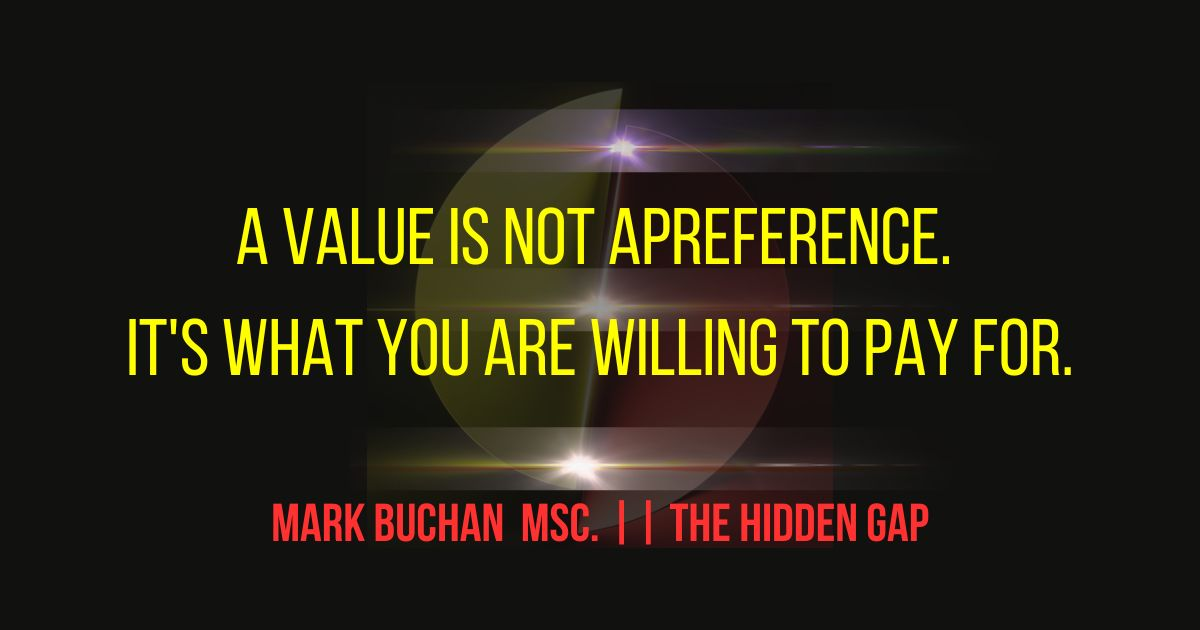
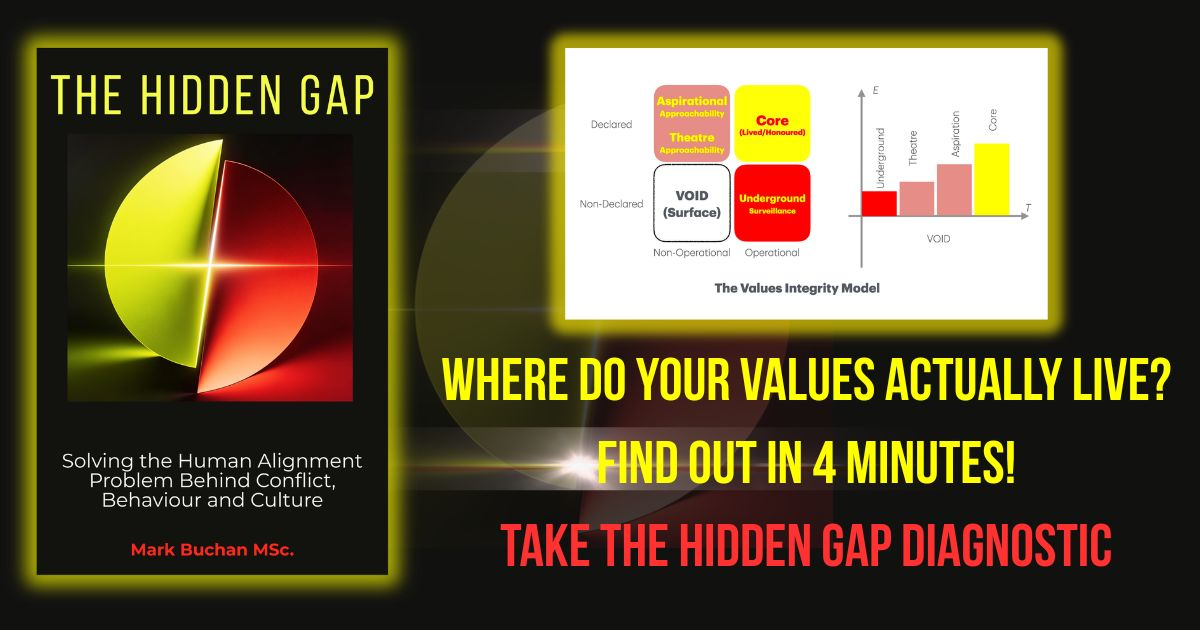
added linked in free chapter and thanks page

diff --git a/app/thanks-linkedin/page.tsx b/app/thanks-linkedin/page.tsx
@@ -1,0 +1,113 @@
+"use client"
+
+import { useEffect } from "react"
+import { Footer } from "@/components/footer"
+
+declare global {
+  interface Window {
+    gtag?: (...args: unknown[]) => void
+  }
+}
+
+const SECONDARY_LINKS = [
+  {
+    title: "Take the 4-min diagnostic",
+    description: "See where your own hidden gap shows up, in under 4 minutes.",
+    href: "https://www.markbuchan.co.uk/the-hidden-gap-diagnostic/",
+  },
+  {
+    title: "Join From Our Trenches",
+    description: "Fortnightly, honest, no-fluff thinking on values and culture.",
+    href: "https://www.markbuchan.co.uk/community/",
+  },
+  {
+    title: "Book a diagnostic conversation",
+    description: "Free, 30 minutes, usually surfaces something useful.",
+    href: "https://www.markbuchan.co.uk/work-with-me/#diagnostic-conversation",
+  },
+]
+
+export default function ThanksLinkedInPage() {
+  useEffect(() => {
+    window.gtag?.("event", "linkedin_thanks_view")
+  }, [])
+
+  function handleSecondaryClick(title: string) {
+    window.gtag?.("event", "linkedin_secondary_click", { link: title })
+  }
+
+  function handleBookMentionClick() {
+    window.gtag?.("event", "linkedin_book_mention_click")
+  }
+
+  return (
+    <>
+      <main className="bg-white">
+
+        {/* HERO */}
+        <section className="bg-[#111110] pt-32 pb-20">
+          <div className="mx-auto max-w-3xl px-6 text-center">
+            <h1 className="text-4xl md:text-6xl font-bold leading-tight text-[#ffff00] text-balance mb-6">
+              It&apos;s downloading now;
+              <br />
+              check your downloads folder.
+            </h1>
+            <p className="text-xl leading-relaxed text-white opacity-75 max-w-2xl mx-auto">
+              Once you have read the chapter, here&apos;s where you can go deeper:
+            </p>
+          </div>
+        </section>
+
+        <hr className="w-full h-px bg-white" style={{boxShadow: '0 0 6px 1px rgba(255,255,255,0.8), 0 0 16px 4px rgba(255,49,49,0.5), 0 0 32px 8px rgba(255,49,49,0.2)'}} />
+
+        {/* SECONDARY LINKS */}
+        <section className="py-24">
+          <div className="mx-auto max-w-5xl px-6">
+            <div className="grid gap-6 md:grid-cols-3">
+              {SECONDARY_LINKS.map((link) => (
+                <a
+                  key={link.title}
+                  href={link.href}
+                  onClick={() => handleSecondaryClick(link.title)}
+                  className="flex h-full flex-col rounded-2xl border border-[rgba(17,17,16,0.15)] bg-white p-8 shadow-sm hover:border-[#111110] transition-colors"
+                >
+                  <h3 className="text-xl font-bold text-[#111110] mb-3">
+                    {link.title}
+                  </h3>
+                  <p className="text-[#333330] leading-relaxed flex-1">
+                    {link.description}
+                  </p>
+                  <span className="mt-6 text-sm font-semibold text-[#ff3131]">
+                    Learn more →
+                  </span>
+                </a>
+              ))}
+            </div>
+          </div>
+        </section>
+
+        <hr className="w-full h-px bg-white" style={{boxShadow: '0 0 6px 1px rgba(255,255,255,0.8), 0 0 16px 4px rgba(255,49,49,0.5), 0 0 32px 8px rgba(255,49,49,0.2)'}} />
+
+        {/* SOFT BOOK MENTION */}
+        <section className="bg-[#ffff00] py-16">
+          <div className="mx-auto max-w-2xl px-6 text-center">
+            <p className="text-lg text-[#111110] leading-relaxed">
+              If Chapter 1 resonates, the full book is live on Amazon and at{" "}
+              <a
+                href="/book"
+                onClick={handleBookMentionClick}
+                className="underline font-semibold hover:text-[#ff3131]"
+              >
+                markbuchan.co.uk/book
+              </a>{" "}
+              — use <span className="font-semibold">LINKEDIN25</span> for 25% off.
+            </p>
+          </div>
+        </section>
+
+      </main>
+
+      <Footer />
+    </>
+  )
+}

diff --git a/app/from-linkedin/page.tsx b/app/from-linkedin/page.tsx
@@ -1,0 +1,87 @@
+"use client"
+
+import { useEffect } from "react"
+import { useRouter } from "next/navigation"
+import Image from "next/image"
+import { Footer } from "@/components/footer"
+
+declare global {
+  interface Window {
+    gtag?: (...args: unknown[]) => void
+  }
+}
+
+export default function FromLinkedInPage() {
+  const router = useRouter()
+
+  useEffect(() => {
+    window.gtag?.("event", "linkedin_landing_view")
+  }, [])
+
+  function handleDownloadClick() {
+    window.gtag?.("event", "linkedin_download_click")
+
+    const link = document.createElement("a")
+    link.href = "/downloads/the-hidden-gap-free-chapter-linkedin.pdf"
+    link.download = "the-hidden-gap-free-chapter-linkedin.pdf"
+    document.body.appendChild(link)
+    link.click()
+    document.body.removeChild(link)
+
+    router.push("/thanks-linkedin")
+  }
+
+  return (
+    <>
+      <main className="bg-[#111110]">
+
+        {/* HERO */}
+        <section className="pt-32 pb-24 md:pt-40 md:pb-32">
+          <div className="mx-auto max-w-5xl px-6 grid gap-14 md:grid-cols-[0.9fr_1.1fr] items-center">
+
+            {/* BOOK COVER */}
+            <div className="mx-auto w-full max-w-[280px] md:max-w-[340px]">
+              <div className="overflow-hidden rounded-lg shadow-[0_30px_80px_rgba(0,0,0,0.5)] ring-2 ring-white/10">
+                <Image
+                  src="/images/book-cover.jpg"
+                  alt="The Hidden Gap book cover"
+                  width={900}
+                  height={1200}
+                  className="h-auto w-full object-cover"
+                  priority
+                />
+              </div>
+            </div>
+
+            {/* CONTENT */}
+            <div className="text-center md:text-left">
+              <h1 className="leading-tight text-[#ffff00] text-balance mb-6">
+                <span className="block text-4xl md:text-6xl font-bold">
+                  Thanks for connecting.
+                </span>
+                <span className="block text-2xl md:text-4xl font-bold mt-2">
+                  Here&apos;s Chapter 1 for free.
+                </span>
+              </h1>
+              <p className="text-xl leading-relaxed text-white opacity-75 mb-14">
+                Just an honest look at the gap between what organisations say
+                and what they actually do.
+              </p>
+
+              <button
+                onClick={handleDownloadClick}
+                className="inline-flex items-center justify-center rounded-md bg-[#ff3131] px-10 py-6 text-white text-2xl font-bold hover:bg-[#ffff00] hover:text-[#111110] transition-colors shadow-[0_0_50px_rgba(255,49,49,0.45)]"
+              >
+                Download Chapter 1 (PDF) →
+              </button>
+            </div>
+
+          </div>
+        </section>
+
+      </main>
+
+      <Footer />
+    </>
+  )
+}

diff --git a/app/from-linkedin/layout.tsx b/app/from-linkedin/layout.tsx
@@ -1,0 +1,17 @@
+export const metadata = {
+  title: "Get Chapter 1 Free — The Hidden Gap | Mark Buchan MSc",
+  description: "Download the first chapter of The Hidden Gap free. No email required.",
+  robots: {
+    index: false,
+    follow: false,
+  },
+  openGraph: {
+    title: "Get Chapter 1 Free — The Hidden Gap | Mark Buchan MSc",
+    description: "Download the first chapter of The Hidden Gap free. No email required.",
+    images: [{ url: "/images/og/og-free-chapter.jpg", width: 1200, height: 630 }],
+  },
+}
+
+export default function FromLinkedInLayout({ children }: { children: React.ReactNode }) {
+  return <>{children}</>
+}

diff --git a/app/thanks-linkedin/layout.tsx b/app/thanks-linkedin/layout.tsx
@@ -1,0 +1,17 @@
+export const metadata = {
+  title: "Thanks — The Hidden Gap | Mark Buchan MSc",
+  description: "Your copy of Chapter 1 is downloading. Here's where to go next.",
+  robots: {
+    index: false,
+    follow: false,
+  },
+  openGraph: {
+    title: "Thanks — The Hidden Gap | Mark Buchan MSc",
+    description: "Your copy of Chapter 1 is downloading. Here's where to go next.",
+    images: [{ url: "/images/og/og-free-chapter.jpg", width: 1200, height: 630 }],
+  },
+}
+
+export default function ThanksLinkedInLayout({ children }: { children: React.ReactNode }) {
+  return <>{children}</>
+}

diff --git a/app/community/page.tsx b/app/community/page.tsx
@@ -147,14 +147,14 @@ export default function CommunityPage() {
               Want to go deeper?
             </h2>
             <p className="text-lg text-muted-foreground mb-8 max-w-xl mx-auto">
-              The Hidden Gap names the problem, maps the territory, and gives 
-              you the tools to close the distance. Available 19th June 2026.
+              The Hidden Gap names the problem, maps the territory, and gives
+              you the tools to close the distance. Available now.
             </p>
             <a
-              href="/pre-order"
+              href="/book"
               className="inline-flex items-center rounded-md bg-[#111110] px-8 py-4 text-[#ffff00] text-lg font-semibold hover:bg-[#ff3131] hover:text-white transition-colors"
             >
-              Pre-Order The Book →
+              Buy The Book →
             </a>
           </div>
         </section>

diff --git a/out/404.html b/out/404.html
@@ -1,1 +1,1 @@
-<!DOCTYPE html><!--dXLTUYtPh5R326onVpKFM--><html lang="en"><head><meta charSet="utf-8"/><meta name="viewport" content="width=device-width, initial-scale=1"/><link rel="preload" href="/_next/static/media/e4af272ccee01ff0-s.p.woff2" as="font" crossorigin="" type="font/woff2"/><link rel="preload" href="/_next/static/media/eaead17c7dbfcd5d-s.p.woff2" as="font" crossorigin="" type="font/woff2"/><link rel="stylesheet" href="/_next/static/css/3aefc04b1d9be7e5.css" data-precedence="next"/><link rel="stylesheet" href="/_next/static/css/f166f8566a1b8bf9.css" data-precedence="next"/><link rel="preload" as="script" fetchPriority="low" href="/_next/static/chunks/webpack-425e912a94b467f3.js"/><script src="/_next/static/chunks/6ee9f5d1-21ccf1713a250a03.js" async=""></script><script src="/_next/static/chunks/977-2bc62eb106395d11.js" async=""></script><script src="/_next/static/chunks/main-app-3b5ccf4932213ca9.js" async=""></script><script src="/_next/static/chunks/app/layout-d648d078710b6146.js" async=""></script><link rel="preload" href="https://www.googletagmanager.com/gtag/js?id=G-Q5HFCQMSCL" as="script"/><meta name="robots" content="noindex"/><meta name="next-size-adjust" content=""/><title>404: This page could not be found.</title><meta name="theme-color" content="#ffff00"/><title>Mark Buchan MSc — Human Alignment Consultant &amp; Author</title><meta name="description" content="Helping leaders close the gap between the values their organisation declares and the values actually running the show. Author of The Hidden Gap."/><meta name="author" content="Mark Buchan"/><meta name="keywords" content="Mark Buchan,The Hidden Gap,values,organisational culture,leadership,change,team conflict,coaching,ECHO framework"/><meta name="google-site-verification" content="qrhAgHg0cDomVuNx-lg_oaarp6g3hKlMg4YwEJoYYA0"/><meta property="og:title" content="Mark Buchan MSc — Human Alignment Consultant &amp; Author"/><meta property="og:description" content="Helping leaders close the gap between declared values and operating reality. Author of The Hidden Gap."/><meta property="og:url" content="https://markbuchan.co.uk/"/><meta property="og:image" content="https://markbuchan.co.uk/images/og/og-home.jpg"/><meta property="og:image:width" content="1920"/><meta property="og:image:height" content="1080"/><meta property="og:type" content="website"/><meta name="twitter:card" content="summary_large_image"/><meta name="twitter:title" content="Mark Buchan MSc — Human Alignment Consultant &amp; Author"/><meta name="twitter:description" content="Helping leaders close the gap between declared values and operating reality. Author of The Hidden Gap."/><meta name="twitter:image" content="https://markbuchan.co.uk/images/og/og-home.jpg"/><meta name="twitter:image:width" content="1920"/><meta name="twitter:image:height" content="1080"/><script src="/_next/static/chunks/polyfills-42372ed130431b0a.js" noModule=""></script></head><body><div hidden=""><!--$--><!--/$--></div><div style="font-family:system-ui,&quot;Segoe UI&quot;,Roboto,Helvetica,Arial,sans-serif,&quot;Apple Color Emoji&quot;,&quot;Segoe UI Emoji&quot;;height:100vh;text-align:center;display:flex;flex-direction:column;align-items:center;justify-content:center"><div><style>body{color:#000;background:#fff;margin:0}.next-error-h1{border-right:1px solid rgba(0,0,0,.3)}@media (prefers-color-scheme:dark){body{color:#fff;background:#000}.next-error-h1{border-right:1px solid rgba(255,255,255,.3)}}</style><h1 class="next-error-h1" style="display:inline-block;margin:0 20px 0 0;padding:0 23px 0 0;font-size:24px;font-weight:500;vertical-align:top;line-height:49px">404</h1><div style="display:inline-block"><h2 style="font-size:14px;font-weight:400;line-height:49px;margin:0">This page could not be found.</h2></div></div></div><!--$--><!--/$--><script src="/_next/static/chunks/webpack-425e912a94b467f3.js" id="_R_" async=""></script><script>(self.__next_f=self.__next_f||[]).push([0])</script><script>self.__next_f.push([1,"1:\"$Sreact.fragment\"\n2:I[1409,[],\"\"]\n3:I[1813,[],\"\"]\n4:I[7921,[\"177\",\"static/chunks/app/layout-d648d078710b6146.js\"],\"\"]\n5:I[3652,[],\"OutletBoundary\"]\n7:I[1293,[],\"AsyncMetadataOutlet\"]\n9:I[3652,[],\"ViewportBoundary\"]\nb:I[3652,[],\"MetadataBoundary\"]\nc:\"$Sreact.suspense\"\ne:I[323,[],\"\"]\n:HL[\"/_next/static/media/e4af272ccee01ff0-s.p.woff2\",\"font\",{\"crossOrigin\":\"\",\"type\":\"font/woff2\"}]\n:HL[\"/_next/static/media/eaead17c7dbfcd5d-s.p.woff2\",\"font\",{\"crossOrigin\":\"\",\"type\":\"font/woff2\"}]\n:HL[\"/_next/static/css/3aefc04b1d9be7e5.css\",\"style\"]\n:HL[\"/_next/static/css/f166f8566a1b8bf9.css\",\"style\"]\n"])</script><script>self.__next_f.push([1,"0:{\"P\":null,\"b\":\"dXLTUYtPh5R326onVpKFM\",\"p\":\"\",\"c\":[\"\",\"_not-found\",\"\"],\"i\":false,\"f\":[[[\"\",{\"children\":[\"/_not-found\",{\"children\":[\"__PAGE__\",{}]}]},\"$undefined\",\"$undefined\",true],[\"\",[\"$\",\"$1\",\"c\",{\"children\":[[[\"$\",\"link\",\"0\",{\"rel\":\"stylesheet\",\"href\":\"/_next/static/css/3aefc04b1d9be7e5.css\",\"precedence\":\"next\",\"crossOrigin\":\"$undefined\",\"nonce\":\"$undefined\"}],[\"$\",\"link\",\"1\",{\"rel\":\"stylesheet\",\"href\":\"/_next/static/css/f166f8566a1b8bf9.css\",\"precedence\":\"next\",\"crossOrigin\":\"$undefined\",\"nonce\":\"$undefined\"}]],[\"$\",\"html\",null,{\"lang\":\"en\",\"children\":[\"$\",\"body\",null,{\"children\":[[\"$\",\"$L2\",null,{\"parallelRouterKey\":\"children\",\"error\":\"$undefined\",\"errorStyles\":\"$undefined\",\"errorScripts\":\"$undefined\",\"template\":[\"$\",\"$L3\",null,{}],\"templateStyles\":\"$undefined\",\"templateScripts\":\"$undefined\",\"notFound\":\"$undefined\",\"forbidden\":\"$undefined\",\"unauthorized\":\"$undefined\"}],[\"$\",\"$L4\",null,{\"src\":\"https://www.googletagmanager.com/gtag/js?id=G-Q5HFCQMSCL\",\"strategy\":\"afterInteractive\"}],[\"$\",\"$L4\",null,{\"id\":\"ga-script\",\"strategy\":\"afterInteractive\",\"children\":\"\\n            window.dataLayer = window.dataLayer || [];\\n            function gtag(){dataLayer.push(arguments);}\\n            gtag('js', new Date());\\n            gtag('config', 'G-Q5HFCQMSCL');\\n          \"}]]}]}]]}],{\"children\":[\"/_not-found\",[\"$\",\"$1\",\"c\",{\"children\":[null,[\"$\",\"$L2\",null,{\"parallelRouterKey\":\"children\",\"error\":\"$undefined\",\"errorStyles\":\"$undefined\",\"errorScripts\":\"$undefined\",\"template\":[\"$\",\"$L3\",null,{}],\"templateStyles\":\"$undefined\",\"templateScripts\":\"$undefined\",\"notFound\":\"$undefined\",\"forbidden\":\"$undefined\",\"unauthorized\":\"$undefined\"}]]}],{\"children\":[\"__PAGE__\",[\"$\",\"$1\",\"c\",{\"children\":[[[\"$\",\"title\",null,{\"children\":\"404: This page could not be found.\"}],[\"$\",\"div\",null,{\"style\":{\"fontFamily\":\"system-ui,\\\"Segoe UI\\\",Roboto,Helvetica,Arial,sans-serif,\\\"Apple Color Emoji\\\",\\\"Segoe UI Emoji\\\"\",\"height\":\"100vh\",\"textAlign\":\"center\",\"display\":\"flex\",\"flexDirection\":\"column\",\"alignItems\":\"center\",\"justifyContent\":\"center\"},\"children\":[\"$\",\"div\",null,{\"children\":[[\"$\",\"style\",null,{\"dangerouslySetInnerHTML\":{\"__html\":\"body{color:#000;background:#fff;margin:0}.next-error-h1{border-right:1px solid rgba(0,0,0,.3)}@media (prefers-color-scheme:dark){body{color:#fff;background:#000}.next-error-h1{border-right:1px solid rgba(255,255,255,.3)}}\"}}],[\"$\",\"h1\",null,{\"className\":\"next-error-h1\",\"style\":{\"display\":\"inline-block\",\"margin\":\"0 20px 0 0\",\"padding\":\"0 23px 0 0\",\"fontSize\":24,\"fontWeight\":500,\"verticalAlign\":\"top\",\"lineHeight\":\"49px\"},\"children\":404}],[\"$\",\"div\",null,{\"style\":{\"display\":\"inline-block\"},\"children\":[\"$\",\"h2\",null,{\"style\":{\"fontSize\":14,\"fontWeight\":400,\"lineHeight\":\"49px\",\"margin\":0},\"children\":\"This page could not be found.\"}]}]]}]}]],null,[\"$\",\"$L5\",null,{\"children\":[\"$L6\",[\"$\",\"$L7\",null,{\"promise\":\"$@8\"}]]}]]}],{},null,false]},null,false]},null,false],[\"$\",\"$1\",\"h\",{\"children\":[[\"$\",\"meta\",null,{\"name\":\"robots\",\"content\":\"noindex\"}],[[\"$\",\"$L9\",null,{\"children\":\"$La\"}],[\"$\",\"meta\",null,{\"name\":\"next-size-adjust\",\"content\":\"\"}]],[\"$\",\"$Lb\",null,{\"children\":[\"$\",\"div\",null,{\"hidden\":true,\"children\":[\"$\",\"$c\",null,{\"fallback\":null,\"children\":\"$Ld\"}]}]}]]}],false]],\"m\":\"$undefined\",\"G\":[\"$e\",[]],\"s\":false,\"S\":true}\n"])</script><script>self.__next_f.push([1,"a:[[\"$\",\"meta\",\"0\",{\"charSet\":\"utf-8\"}],[\"$\",\"meta\",\"1\",{\"name\":\"viewport\",\"content\":\"width=device-width, initial-scale=1\"}],[\"$\",\"meta\",\"2\",{\"name\":\"theme-color\",\"content\":\"#ffff00\"}]]\n6:null\n"])</script><script>self.__next_f.push([1,"8:{\"metadata\":[[\"$\",\"title\",\"0\",{\"children\":\"Mark Buchan MSc — Human Alignment Consultant \u0026 Author\"}],[\"$\",\"meta\",\"1\",{\"name\":\"description\",\"content\":\"Helping leaders close the gap between the values their organisation declares and the values actually running the show. Author of The Hidden Gap.\"}],[\"$\",\"meta\",\"2\",{\"name\":\"author\",\"content\":\"Mark Buchan\"}],[\"$\",\"meta\",\"3\",{\"name\":\"keywords\",\"content\":\"Mark Buchan,The Hidden Gap,values,organisational culture,leadership,change,team conflict,coaching,ECHO framework\"}],[\"$\",\"meta\",\"4\",{\"name\":\"google-site-verification\",\"content\":\"qrhAgHg0cDomVuNx-lg_oaarp6g3hKlMg4YwEJoYYA0\"}],[\"$\",\"meta\",\"5\",{\"property\":\"og:title\",\"content\":\"Mark Buchan MSc — Human Alignment Consultant \u0026 Author\"}],[\"$\",\"meta\",\"6\",{\"property\":\"og:description\",\"content\":\"Helping leaders close the gap between declared values and operating reality. Author of The Hidden Gap.\"}],[\"$\",\"meta\",\"7\",{\"property\":\"og:url\",\"content\":\"https://markbuchan.co.uk/\"}],[\"$\",\"meta\",\"8\",{\"property\":\"og:image\",\"content\":\"https://markbuchan.co.uk/images/og/og-home.jpg\"}],[\"$\",\"meta\",\"9\",{\"property\":\"og:image:width\",\"content\":\"1920\"}],[\"$\",\"meta\",\"10\",{\"property\":\"og:image:height\",\"content\":\"1080\"}],[\"$\",\"meta\",\"11\",{\"property\":\"og:type\",\"content\":\"website\"}],[\"$\",\"meta\",\"12\",{\"name\":\"twitter:card\",\"content\":\"summary_large_image\"}],[\"$\",\"meta\",\"13\",{\"name\":\"twitter:title\",\"content\":\"Mark Buchan MSc — Human Alignment Consultant \u0026 Author\"}],[\"$\",\"meta\",\"14\",{\"name\":\"twitter:description\",\"content\":\"Helping leaders close the gap between declared values and operating reality. Author of The Hidden Gap.\"}],[\"$\",\"meta\",\"15\",{\"name\":\"twitter:image\",\"content\":\"https://markbuchan.co.uk/images/og/og-home.jpg\"}],[\"$\",\"meta\",\"16\",{\"name\":\"twitter:image:width\",\"content\":\"1920\"}],[\"$\",\"meta\",\"17\",{\"name\":\"twitter:image:height\",\"content\":\"1080\"}]],\"error\":null,\"digest\":\"$undefined\"}\n"])</script><script>self.__next_f.push([1,"d:\"$8:metadata\"\n"])</script></body></html>
+<!DOCTYPE html><!--xyerWU8p4EZMyAIZhNPAy--><html lang="en"><head><meta charSet="utf-8"/><meta name="viewport" content="width=device-width, initial-scale=1"/><link rel="preload" href="/_next/static/media/e4af272ccee01ff0-s.p.woff2" as="font" crossorigin="" type="font/woff2"/><link rel="preload" href="/_next/static/media/eaead17c7dbfcd5d-s.p.woff2" as="font" crossorigin="" type="font/woff2"/><link rel="stylesheet" href="/_next/static/css/3aefc04b1d9be7e5.css" data-precedence="next"/><link rel="stylesheet" href="/_next/static/css/67f5d661687621f4.css" data-precedence="next"/><link rel="preload" as="script" fetchPriority="low" href="/_next/static/chunks/webpack-425e912a94b467f3.js"/><script src="/_next/static/chunks/6ee9f5d1-21ccf1713a250a03.js" async=""></script><script src="/_next/static/chunks/977-2bc62eb106395d11.js" async=""></script><script src="/_next/static/chunks/main-app-3b5ccf4932213ca9.js" async=""></script><script src="/_next/static/chunks/app/layout-d648d078710b6146.js" async=""></script><link rel="preload" href="https://www.googletagmanager.com/gtag/js?id=G-Q5HFCQMSCL" as="script"/><meta name="robots" content="noindex"/><meta name="next-size-adjust" content=""/><title>404: This page could not be found.</title><meta name="theme-color" content="#ffff00"/><title>Mark Buchan MSc — Human Alignment Consultant &amp; Author</title><meta name="description" content="Helping leaders close the gap between the values their organisation declares and the values actually running the show. Author of The Hidden Gap."/><meta name="author" content="Mark Buchan"/><meta name="keywords" content="Mark Buchan,The Hidden Gap,values,organisational culture,leadership,change,team conflict,coaching,ECHO framework"/><meta name="google-site-verification" content="qrhAgHg0cDomVuNx-lg_oaarp6g3hKlMg4YwEJoYYA0"/><meta property="og:title" content="Mark Buchan MSc — Human Alignment Consultant &amp; Author"/><meta property="og:description" content="Helping leaders close the gap between declared values and operating reality. Author of The Hidden Gap."/><meta property="og:url" content="https://markbuchan.co.uk/"/><meta property="og:image" content="https://markbuchan.co.uk/images/og/og-home.jpg"/><meta property="og:image:width" content="1920"/><meta property="og:image:height" content="1080"/><meta property="og:type" content="website"/><meta name="twitter:card" content="summary_large_image"/><meta name="twitter:title" content="Mark Buchan MSc — Human Alignment Consultant &amp; Author"/><meta name="twitter:description" content="Helping leaders close the gap between declared values and operating reality. Author of The Hidden Gap."/><meta name="twitter:image" content="https://markbuchan.co.uk/images/og/og-home.jpg"/><meta name="twitter:image:width" content="1920"/><meta name="twitter:image:height" content="1080"/><script src="/_next/static/chunks/polyfills-42372ed130431b0a.js" noModule=""></script></head><body><div hidden=""><!--$--><!--/$--></div><div style="font-family:system-ui,&quot;Segoe UI&quot;,Roboto,Helvetica,Arial,sans-serif,&quot;Apple Color Emoji&quot;,&quot;Segoe UI Emoji&quot;;height:100vh;text-align:center;display:flex;flex-direction:column;align-items:center;justify-content:center"><div><style>body{color:#000;background:#fff;margin:0}.next-error-h1{border-right:1px solid rgba(0,0,0,.3)}@media (prefers-color-scheme:dark){body{color:#fff;background:#000}.next-error-h1{border-right:1px solid rgba(255,255,255,.3)}}</style><h1 class="next-error-h1" style="display:inline-block;margin:0 20px 0 0;padding:0 23px 0 0;font-size:24px;font-weight:500;vertical-align:top;line-height:49px">404</h1><div style="display:inline-block"><h2 style="font-size:14px;font-weight:400;line-height:49px;margin:0">This page could not be found.</h2></div></div></div><!--$--><!--/$--><script src="/_next/static/chunks/webpack-425e912a94b467f3.js" id="_R_" async=""></script><script>(self.__next_f=self.__next_f||[]).push([0])</script><script>self.__next_f.push([1,"1:\"$Sreact.fragment\"\n2:I[1409,[],\"\"]\n3:I[1813,[],\"\"]\n4:I[7921,[\"177\",\"static/chunks/app/layout-d648d078710b6146.js\"],\"\"]\n5:I[3652,[],\"OutletBoundary\"]\n7:I[1293,[],\"AsyncMetadataOutlet\"]\n9:I[3652,[],\"ViewportBoundary\"]\nb:I[3652,[],\"MetadataBoundary\"]\nc:\"$Sreact.suspense\"\ne:I[323,[],\"\"]\n:HL[\"/_next/static/media/e4af272ccee01ff0-s.p.woff2\",\"font\",{\"crossOrigin\":\"\",\"type\":\"font/woff2\"}]\n:HL[\"/_next/static/media/eaead17c7dbfcd5d-s.p.woff2\",\"font\",{\"crossOrigin\":\"\",\"type\":\"font/woff2\"}]\n:HL[\"/_next/static/css/3aefc04b1d9be7e5.css\",\"style\"]\n:HL[\"/_next/static/css/67f5d661687621f4.css\",\"style\"]\n"])</script><script>self.__next_f.push([1,"0:{\"P\":null,\"b\":\"xyerWU8p4EZMyAIZhNPAy\",\"p\":\"\",\"c\":[\"\",\"_not-found\",\"\"],\"i\":false,\"f\":[[[\"\",{\"children\":[\"/_not-found\",{\"children\":[\"__PAGE__\",{}]}]},\"$undefined\",\"$undefined\",true],[\"\",[\"$\",\"$1\",\"c\",{\"children\":[[[\"$\",\"link\",\"0\",{\"rel\":\"stylesheet\",\"href\":\"/_next/static/css/3aefc04b1d9be7e5.css\",\"precedence\":\"next\",\"crossOrigin\":\"$undefined\",\"nonce\":\"$undefined\"}],[\"$\",\"link\",\"1\",{\"rel\":\"stylesheet\",\"href\":\"/_next/static/css/67f5d661687621f4.css\",\"precedence\":\"next\",\"crossOrigin\":\"$undefined\",\"nonce\":\"$undefined\"}]],[\"$\",\"html\",null,{\"lang\":\"en\",\"children\":[\"$\",\"body\",null,{\"children\":[[\"$\",\"$L2\",null,{\"parallelRouterKey\":\"children\",\"error\":\"$undefined\",\"errorStyles\":\"$undefined\",\"errorScripts\":\"$undefined\",\"template\":[\"$\",\"$L3\",null,{}],\"templateStyles\":\"$undefined\",\"templateScripts\":\"$undefined\",\"notFound\":\"$undefined\",\"forbidden\":\"$undefined\",\"unauthorized\":\"$undefined\"}],[\"$\",\"$L4\",null,{\"src\":\"https://www.googletagmanager.com/gtag/js?id=G-Q5HFCQMSCL\",\"strategy\":\"afterInteractive\"}],[\"$\",\"$L4\",null,{\"id\":\"ga-script\",\"strategy\":\"afterInteractive\",\"children\":\"\\n            window.dataLayer = window.dataLayer || [];\\n            function gtag(){dataLayer.push(arguments);}\\n            gtag('js', new Date());\\n            gtag('config', 'G-Q5HFCQMSCL');\\n          \"}]]}]}]]}],{\"children\":[\"/_not-found\",[\"$\",\"$1\",\"c\",{\"children\":[null,[\"$\",\"$L2\",null,{\"parallelRouterKey\":\"children\",\"error\":\"$undefined\",\"errorStyles\":\"$undefined\",\"errorScripts\":\"$undefined\",\"template\":[\"$\",\"$L3\",null,{}],\"templateStyles\":\"$undefined\",\"templateScripts\":\"$undefined\",\"notFound\":\"$undefined\",\"forbidden\":\"$undefined\",\"unauthorized\":\"$undefined\"}]]}],{\"children\":[\"__PAGE__\",[\"$\",\"$1\",\"c\",{\"children\":[[[\"$\",\"title\",null,{\"children\":\"404: This page could not be found.\"}],[\"$\",\"div\",null,{\"style\":{\"fontFamily\":\"system-ui,\\\"Segoe UI\\\",Roboto,Helvetica,Arial,sans-serif,\\\"Apple Color Emoji\\\",\\\"Segoe UI Emoji\\\"\",\"height\":\"100vh\",\"textAlign\":\"center\",\"display\":\"flex\",\"flexDirection\":\"column\",\"alignItems\":\"center\",\"justifyContent\":\"center\"},\"children\":[\"$\",\"div\",null,{\"children\":[[\"$\",\"style\",null,{\"dangerouslySetInnerHTML\":{\"__html\":\"body{color:#000;background:#fff;margin:0}.next-error-h1{border-right:1px solid rgba(0,0,0,.3)}@media (prefers-color-scheme:dark){body{color:#fff;background:#000}.next-error-h1{border-right:1px solid rgba(255,255,255,.3)}}\"}}],[\"$\",\"h1\",null,{\"className\":\"next-error-h1\",\"style\":{\"display\":\"inline-block\",\"margin\":\"0 20px 0 0\",\"padding\":\"0 23px 0 0\",\"fontSize\":24,\"fontWeight\":500,\"verticalAlign\":\"top\",\"lineHeight\":\"49px\"},\"children\":404}],[\"$\",\"div\",null,{\"style\":{\"display\":\"inline-block\"},\"children\":[\"$\",\"h2\",null,{\"style\":{\"fontSize\":14,\"fontWeight\":400,\"lineHeight\":\"49px\",\"margin\":0},\"children\":\"This page could not be found.\"}]}]]}]}]],null,[\"$\",\"$L5\",null,{\"children\":[\"$L6\",[\"$\",\"$L7\",null,{\"promise\":\"$@8\"}]]}]]}],{},null,false]},null,false]},null,false],[\"$\",\"$1\",\"h\",{\"children\":[[\"$\",\"meta\",null,{\"name\":\"robots\",\"content\":\"noindex\"}],[[\"$\",\"$L9\",null,{\"children\":\"$La\"}],[\"$\",\"meta\",null,{\"name\":\"next-size-adjust\",\"content\":\"\"}]],[\"$\",\"$Lb\",null,{\"children\":[\"$\",\"div\",null,{\"hidden\":true,\"children\":[\"$\",\"$c\",null,{\"fallback\":null,\"children\":\"$Ld\"}]}]}]]}],false]],\"m\":\"$undefined\",\"G\":[\"$e\",[]],\"s\":false,\"S\":true}\n"])</script><script>self.__next_f.push([1,"a:[[\"$\",\"meta\",\"0\",{\"charSet\":\"utf-8\"}],[\"$\",\"meta\",\"1\",{\"name\":\"viewport\",\"content\":\"width=device-width, initial-scale=1\"}],[\"$\",\"meta\",\"2\",{\"name\":\"theme-color\",\"content\":\"#ffff00\"}]]\n6:null\n"])</script><script>self.__next_f.push([1,"8:{\"metadata\":[[\"$\",\"title\",\"0\",{\"children\":\"Mark Buchan MSc — Human Alignment Consultant \u0026 Author\"}],[\"$\",\"meta\",\"1\",{\"name\":\"description\",\"content\":\"Helping leaders close the gap between the values their organisation declares and the values actually running the show. Author of The Hidden Gap.\"}],[\"$\",\"meta\",\"2\",{\"name\":\"author\",\"content\":\"Mark Buchan\"}],[\"$\",\"meta\",\"3\",{\"name\":\"keywords\",\"content\":\"Mark Buchan,The Hidden Gap,values,organisational culture,leadership,change,team conflict,coaching,ECHO framework\"}],[\"$\",\"meta\",\"4\",{\"name\":\"google-site-verification\",\"content\":\"qrhAgHg0cDomVuNx-lg_oaarp6g3hKlMg4YwEJoYYA0\"}],[\"$\",\"meta\",\"5\",{\"property\":\"og:title\",\"content\":\"Mark Buchan MSc — Human Alignment Consultant \u0026 Author\"}],[\"$\",\"meta\",\"6\",{\"property\":\"og:description\",\"content\":\"Helping leaders close the gap between declared values and operating reality. Author of The Hidden Gap.\"}],[\"$\",\"meta\",\"7\",{\"property\":\"og:url\",\"content\":\"https://markbuchan.co.uk/\"}],[\"$\",\"meta\",\"8\",{\"property\":\"og:image\",\"content\":\"https://markbuchan.co.uk/images/og/og-home.jpg\"}],[\"$\",\"meta\",\"9\",{\"property\":\"og:image:width\",\"content\":\"1920\"}],[\"$\",\"meta\",\"10\",{\"property\":\"og:image:height\",\"content\":\"1080\"}],[\"$\",\"meta\",\"11\",{\"property\":\"og:type\",\"content\":\"website\"}],[\"$\",\"meta\",\"12\",{\"name\":\"twitter:card\",\"content\":\"summary_large_image\"}],[\"$\",\"meta\",\"13\",{\"name\":\"twitter:title\",\"content\":\"Mark Buchan MSc — Human Alignment Consultant \u0026 Author\"}],[\"$\",\"meta\",\"14\",{\"name\":\"twitter:description\",\"content\":\"Helping leaders close the gap between declared values and operating reality. Author of The Hidden Gap.\"}],[\"$\",\"meta\",\"15\",{\"name\":\"twitter:image\",\"content\":\"https://markbuchan.co.uk/images/og/og-home.jpg\"}],[\"$\",\"meta\",\"16\",{\"name\":\"twitter:image:width\",\"content\":\"1920\"}],[\"$\",\"meta\",\"17\",{\"name\":\"twitter:image:height\",\"content\":\"1080\"}]],\"error\":null,\"digest\":\"$undefined\"}\n"])</script><script>self.__next_f.push([1,"d:\"$8:metadata\"\n"])</script></body></html>